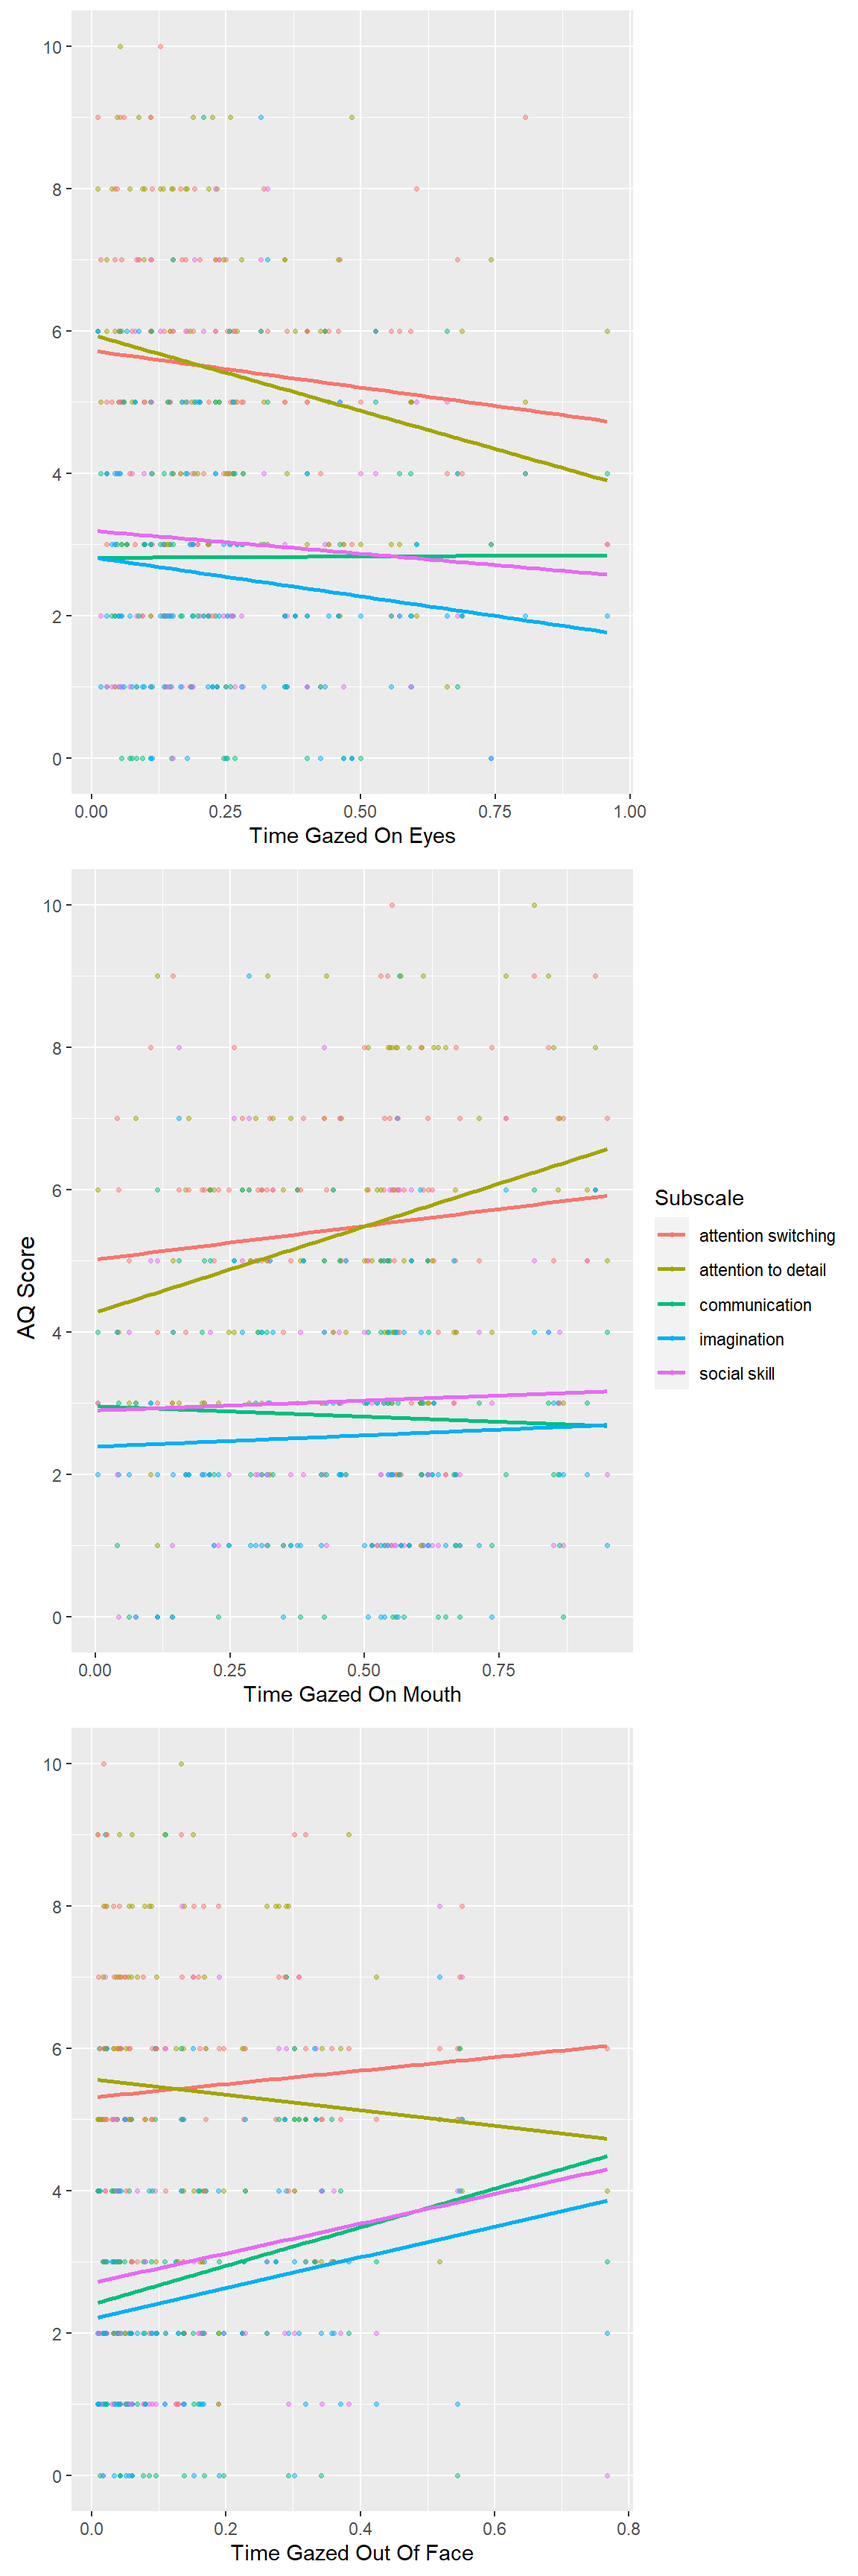
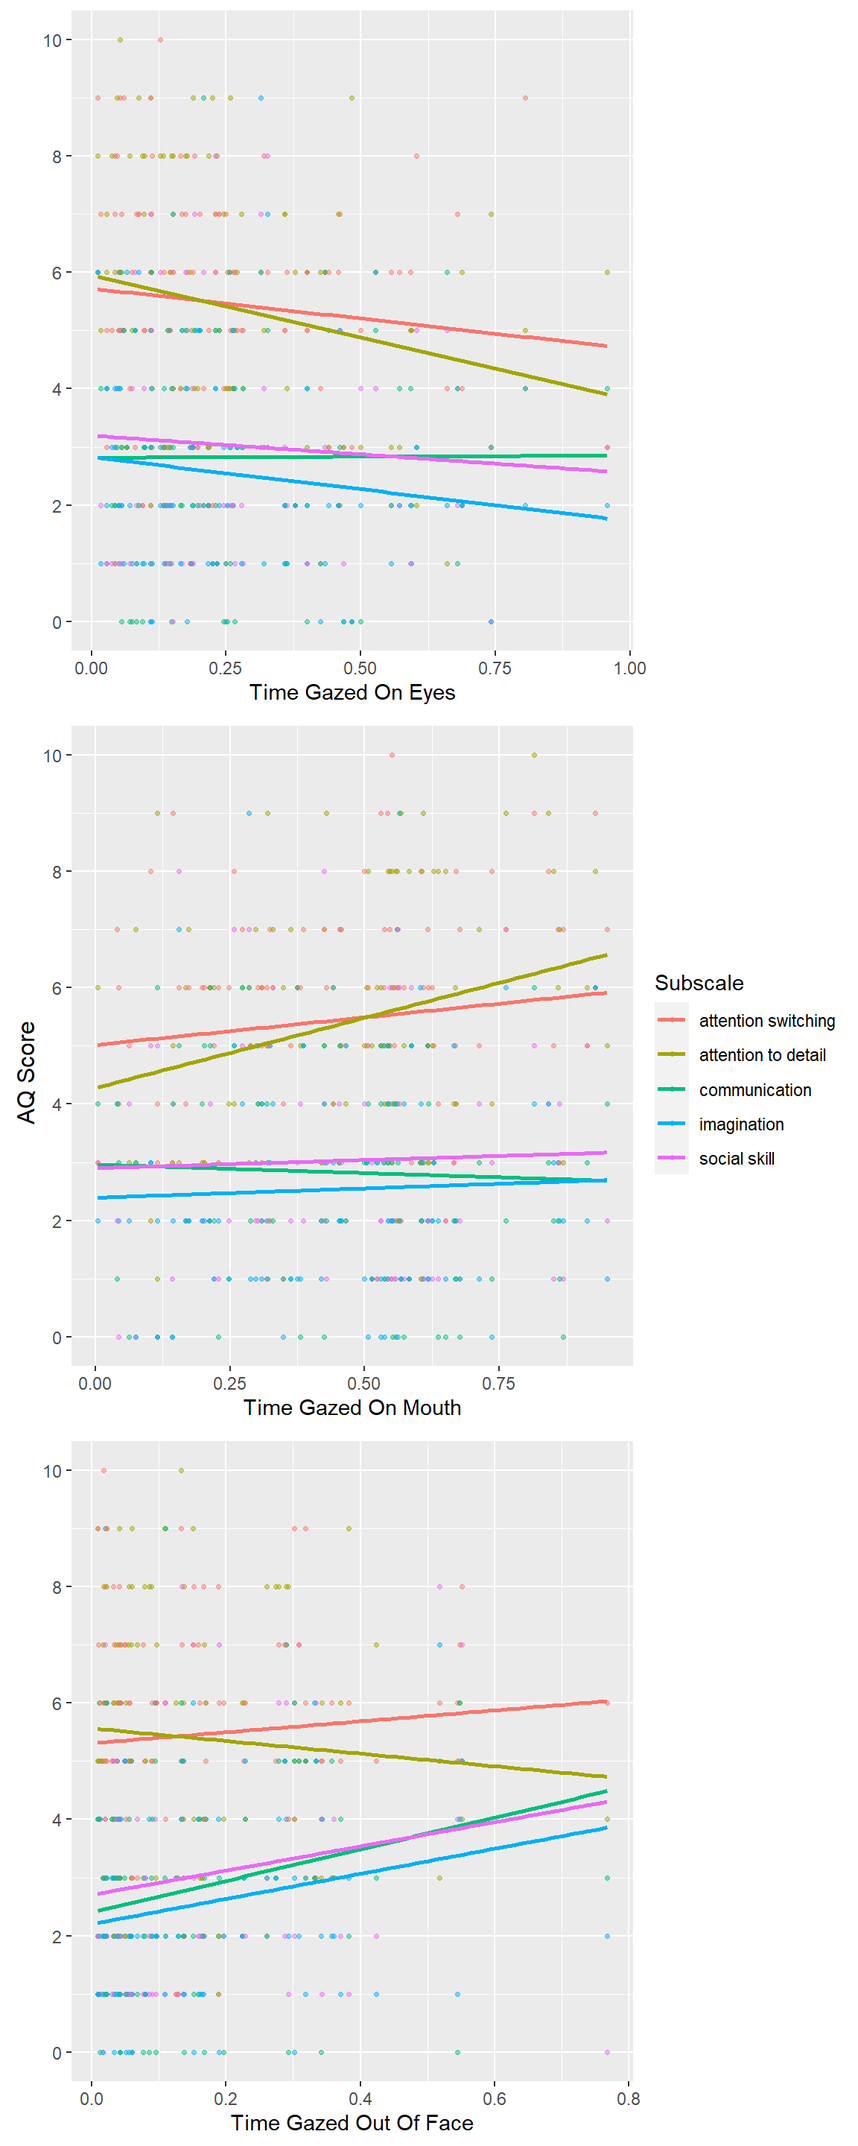
revise height and references

diff --git a/docs/index.html b/docs/index.html
@@ -1863,28 +1863,15 @@ window.FlexDashboardComponents.push({
 <h1>Home</h1>
 <div id="hello" class="section level3">
 <h3>Hello!</h3>
-<p>Welcome to my final project of EDLD 652: Data Visualization class.
-<br></p>
-<p>My name is Seulbi Lee, and I’m a second year PhD student in Special
-Education program. One of my projects that I’m planning is related to
-eye tracking research to better understand struggling readers’
-comprehension, so I wanted to include two eye tracking datasets for this
-project. <br></p>
-<p>The first dataset (“Browsing on Screen”) consists of raw gaze
-coordinates (x-y) of 24 participants while performing online activities
-during five minutes. The eye movements were recorded using Tobii X2-30
-eye tracker and Tobii Pro Studio software. In my project, only Browsing
-activity is included. Original data can be found at <a
-href="https://www.kaggle.com/datasets/namratasri01/eye-movement-data-set-for-desktop-activities"
-class="uri">https://www.kaggle.com/datasets/namratasri01/eye-movement-data-set-for-desktop-activities</a>
-<br></p>
-<p>The second dataset (“Face Viewing Experiment”) is from a published
-study titled “A relationship between Autism-Spectrum Quotient and face
-viewing behavior in 98 participants”. The eye movements were recorded
-using Eye Link 1000 Plus and analyzed with SR Research’s Eyelink
-software. Original data and article can be found at <a
-href="https://doi.org/10.5061/dryad.zpc866t5c"
-class="uri">https://doi.org/10.5061/dryad.zpc866t5c</a></p>
+<pre><code>Welcome to my final project of EDLD 652: Data Visualization class. &lt;br&gt;
+
+My name is Seulbi Lee, and I&#39;m a second year PhD student in Special Education program. One of my projects that I&#39;m planning is related to eye tracking research to better understand struggling readers&#39; comprehension, so I wanted to include two eye tracking datasets for this project. &lt;br&gt;
+
+
+The first dataset (&quot;Browsing on Screen&quot;) consists of raw gaze coordinates (x-y) of 24 participants while performing online activities during five minutes. The eye movements were recorded using Tobii X2-30 eye tracker and Tobii Pro Studio software. In my project, only Browsing activity is included. Original data can be found at https://www.kaggle.com/datasets/namratasri01/eye-movement-data-set-for-desktop-activities &lt;br&gt;
+
+
+The second dataset (&quot;Face Viewing Experiment&quot;) is from a published study titled &quot;A relationship between Autism-Spectrum Quotient and face viewing behavior in 98 participants&quot;. The eye movements were recorded using Eye Link 1000 Plus and analyzed with SR Research’s Eyelink software. Original data and article can be found at https://doi.org/10.5061/dryad.zpc866t5c</code></pre>
 </div>
 <div id="these-things-will-be-revised-for-the-final-product"
 class="section level3">
@@ -1906,9 +1893,12 @@ let me know. Thank you for reviewing my draft!</p>
 </div>
 <div id="browsing-on-screen-1" class="section level1">
 <h1>Browsing on Screen 1</h1>
-<p>The eye gaze path plots show us each participant’s eye movement while
+<blockquote>
+The eye gaze path plots show us each participant’s eye movement while
 browsing on screen for five minutes. Different colors indicate different
-sets (screens) they were browsing.</p>
+sets (screens) they were browsing.</code>
+</pre>
+</blockquote>
 <div id="row" class="section level2">
 <h2>Row</h2>
 <div id="eye-gaze-path" class="section level3">
@@ -1921,21 +1911,20 @@ sets (screens) they were browsing.</p>
 </div>
 <div id="row-1" class="section level2">
 <h2>Row</h2>
-<h3 style="text-align: center;">
-<strong>References</strong>
-</h3>
-<p><br> Srivastava, N., Newn, J., &amp; Velloso, E. (2018). Combining
-Low and Mid-Level Gaze Features for Desktop Activity Recognition.
-Proceedings of the ACM on Interactive, Mobile, Wearable and Ubiquitous
-Technologies, 2(4), 189.</p>
+<p><strong>References</strong> <br> Srivastava, N., Newn, J., &amp;
+Velloso, E. (2018). Combining Low and Mid-Level Gaze Features for
+Desktop Activity Recognition. Proceedings of the ACM on Interactive,
+Mobile, Wearable and Ubiquitous Technologies, 2(4), 189.</p>
 </div>
 </div>
 <div id="browsing-on-screen-2" class="section level1">
 <h1>Browsing on Screen 2</h1>
+<blockquote>
 <p>The screenshots of websites are not what they were looking; however,
 I added each screenshot to help you understand what regions on the
 webpage each participant was gazing (e.g., title, content, sidebar,
 etc.). <br></p>
+</blockquote>
 <div id="row-2" class="section level2 tabset">
 <h2 class="tabset">Row</h2>
 <div id="set-a" class="section level3">
@@ -1959,11 +1948,8 @@ etc.). <br></p>
 </div>
 <div id="row-3" class="section level2">
 <h2>Row</h2>
-<h3 style="text-align: center;">
-<strong>References</strong>
-</h3>
-<p><br> Oregon Ducks. (2022, October 25). In Wikipedia. <a
-href="https://en.wikipedia.org/wiki/Oregon_Ducks"
+<p><strong>References</strong> <br> Oregon Ducks. (2022, October 25). In
+Wikipedia. <a href="https://en.wikipedia.org/wiki/Oregon_Ducks"
 class="uri">https://en.wikipedia.org/wiki/Oregon_Ducks</a> <br>
 Oregon.gov. (n.d.). Equity and Student Success. <a
 href="https://www.oregon.gov/highered/policy-collaboration/Pages/equity-success.aspx"
@@ -1984,9 +1970,11 @@ class="uri">https://www.statista.com/chartoftheday/</a></p>
 </div>
 <div id="face-viewing-experiment-2" class="section level1">
 <h1>Face Viewing Experiment 2</h1>
+<blockquote>
 <p>This plot shows how each scale of AQ is related to the time spent
 areas of interest (i.e., face in this experiment) while an interlocutor
 was talking. <br></p>
+</blockquote>
 <p>[Consideration 1: include the total score or not? <br> Consideration
 2: differentiate and include plots for the time spent on eyes and mouth
 or not?]</p>
@@ -1994,7 +1982,7 @@ or not?]</p>
 <h2>Column</h2>
 <div id="time-gazed-on-or-off-face" class="section level3">
 <h3>Time Gazed On or Off Face</h3>
-<div class="knitr-options" data-fig-width="576" data-fig-height="1728">
+<div class="knitr-options" data-fig-width="576" data-fig-height="1440">
 
 </div>
 <p><img src="index_files/figure-html/unnamed-chunk-6-1.png" width="576" data-figure-id=fig3 style="display: block; margin: auto;" /></p>
@@ -2002,13 +1990,10 @@ or not?]</p>
 </div>
 <div id="row-5" class="section level2">
 <h2>Row</h2>
-<p style="text-align: center;">
-<strong>References</strong>
-</p>
-<p><br> Wegner-Clemens, Kira, Rennig, Johannes, &amp; Beauchamp, Michael
-S. (2020). A relationship between Autism-Spectrum Quotient and face
-viewing behavior in 98 participants [Data set]. <a
-href="https://doi.org/10.5061/dryad.zpc866t5c"
+<p><strong>References</strong> <br> Wegner-Clemens, Kira, Rennig,
+Johannes, &amp; Beauchamp, Michael S. (2020). A relationship between
+Autism-Spectrum Quotient and face viewing behavior in 98 participants
+[Data set]. <a href="https://doi.org/10.5061/dryad.zpc866t5c"
 class="uri">https://doi.org/10.5061/dryad.zpc866t5c</a></p>
 </div>
 </div>
@@ -2090,15 +2075,15 @@ Home
 
 ### Hello!
 
-Welcome to my final project of EDLD 652: Data Visualization class. &lt;br&gt;
+    Welcome to my final project of EDLD 652: Data Visualization class. &lt;br&gt;
 
-My name is Seulbi Lee, and I'm a second year PhD student in Special Education program. One of my projects that I'm planning is related to eye tracking research to better understand struggling readers' comprehension, so I wanted to include two eye tracking datasets for this project. &lt;br&gt;
-
-
-The first dataset ("Browsing on Screen") consists of raw gaze coordinates (x-y) of 24 participants while performing online activities during five minutes. The eye movements were recorded using Tobii X2-30 eye tracker and Tobii Pro Studio software. In my project, only Browsing activity is included. Original data can be found at https://www.kaggle.com/datasets/namratasri01/eye-movement-data-set-for-desktop-activities &lt;br&gt;
+    My name is Seulbi Lee, and I'm a second year PhD student in Special Education program. One of my projects that I'm planning is related to eye tracking research to better understand struggling readers' comprehension, so I wanted to include two eye tracking datasets for this project. &lt;br&gt;
 
 
-The second dataset ("Face Viewing Experiment") is from a published study titled "A relationship between Autism-Spectrum Quotient and face viewing behavior in 98 participants". The eye movements were recorded using Eye Link 1000 Plus and analyzed with SR Research’s Eyelink software. Original data and article can be found at https://doi.org/10.5061/dryad.zpc866t5c
+    The first dataset ("Browsing on Screen") consists of raw gaze coordinates (x-y) of 24 participants while performing online activities during five minutes. The eye movements were recorded using Tobii X2-30 eye tracker and Tobii Pro Studio software. In my project, only Browsing activity is included. Original data can be found at https://www.kaggle.com/datasets/namratasri01/eye-movement-data-set-for-desktop-activities &lt;br&gt;
+
+
+    The second dataset ("Face Viewing Experiment") is from a published study titled "A relationship between Autism-Spectrum Quotient and face viewing behavior in 98 participants". The eye movements were recorded using Eye Link 1000 Plus and analyzed with SR Research’s Eyelink software. Original data and article can be found at https://doi.org/10.5061/dryad.zpc866t5c
 
 
 ### These things will be revised for the final product: 
@@ -2115,7 +2100,7 @@ If there are additional points that I would need to revise, please let me know. 
 Browsing on Screen 1
 =============
 
-The eye gaze path plots show us each participant's eye movement while browsing on screen for five minutes. Different colors indicate different sets (screens) they were browsing. 
+&gt; The eye gaze path plots show us each participant's eye movement while browsing on screen for five minutes. Different colors indicate different sets (screens) they were browsing.&lt;/code&gt;&lt;/pre&gt;
 
 
 Row
@@ -2142,7 +2127,7 @@ g
 
 Row
 ---------------------------------------------------------------
-&lt;h3 style="text-align: center;"&gt;**References**&lt;/h3&gt;
+**References**
 &lt;br&gt;
 Srivastava, N., Newn, J., &amp; Velloso, E. (2018). Combining Low and Mid-Level Gaze Features for Desktop Activity Recognition. Proceedings of the ACM on Interactive, Mobile, Wearable and Ubiquitous Technologies, 2(4), 189.
 
@@ -2152,7 +2137,7 @@ Srivastava, N., Newn, J., &amp; Velloso, E. (2018). Combining Low and Mid-Level 
 Browsing on Screen 2
 =============
 
-The screenshots of websites are not what they were looking; however, I added each screenshot to help you understand what regions on the webpage each participant was gazing (e.g., title, content, sidebar, etc.). &lt;br&gt;
+&gt; The screenshots of websites are not what they were looking; however, I added each screenshot to help you understand what regions on the webpage each participant was gazing (e.g., title, content, sidebar, etc.). &lt;br&gt;
 
 
 
@@ -2215,7 +2200,7 @@ animate(p.C)
 
 Row
 ---------------------------------------------------------------
-&lt;h3 style="text-align: center;"&gt;**References**&lt;/h3&gt;
+**References**
 &lt;br&gt;
 Oregon Ducks. (2022, October 25). In Wikipedia. https://en.wikipedia.org/wiki/Oregon_Ducks
 &lt;br&gt;
@@ -2252,7 +2237,7 @@ ggplot(exp.1, aes(x = x, y = y, fill = PC_Eyes)) +
 Face Viewing Experiment 2
 =============
 
-This plot shows how each scale of AQ is related to the time spent areas of interest (i.e., face in this experiment) while an interlocutor was talking. &lt;br&gt;
+&gt; This plot shows how each scale of AQ is related to the time spent areas of interest (i.e., face in this experiment) while an interlocutor was talking. &lt;br&gt;
 
 [Consideration 1: include the total score or not? &lt;br&gt;
 Consideration 2: differentiate and include plots for the time spent on eyes and mouth or not?]
@@ -2262,7 +2247,7 @@ Column
 
 ### Time Gazed On or Off Face
 
-```{r, echo=FALSE, fig.height=18}
+```{r, echo=FALSE, fig.height=15}
 # OFF
 exp.f &lt;- exp[c(13, 18)]
 exp.f &lt;- aggregate(exp.f$PC_Off, list(exp.f$Code), FUN=mean)
@@ -2342,7 +2327,7 @@ annotate_figure(plots, left = text_grob("AQ Score", rot = 90, vjust = 1))
 
 Row
 ---------------------------------------------------------------
-&lt;p style="text-align: center;"&gt;**References**&lt;/p&gt;
+**References**
 &lt;br&gt;
 Wegner-Clemens, Kira, Rennig, Johannes, &amp; Beauchamp, Michael S. (2020). A relationship between Autism-Spectrum Quotient and face viewing behavior in 98 participants [Data set]. https://doi.org/10.5061/dryad.zpc866t5c
 </code></pre>
